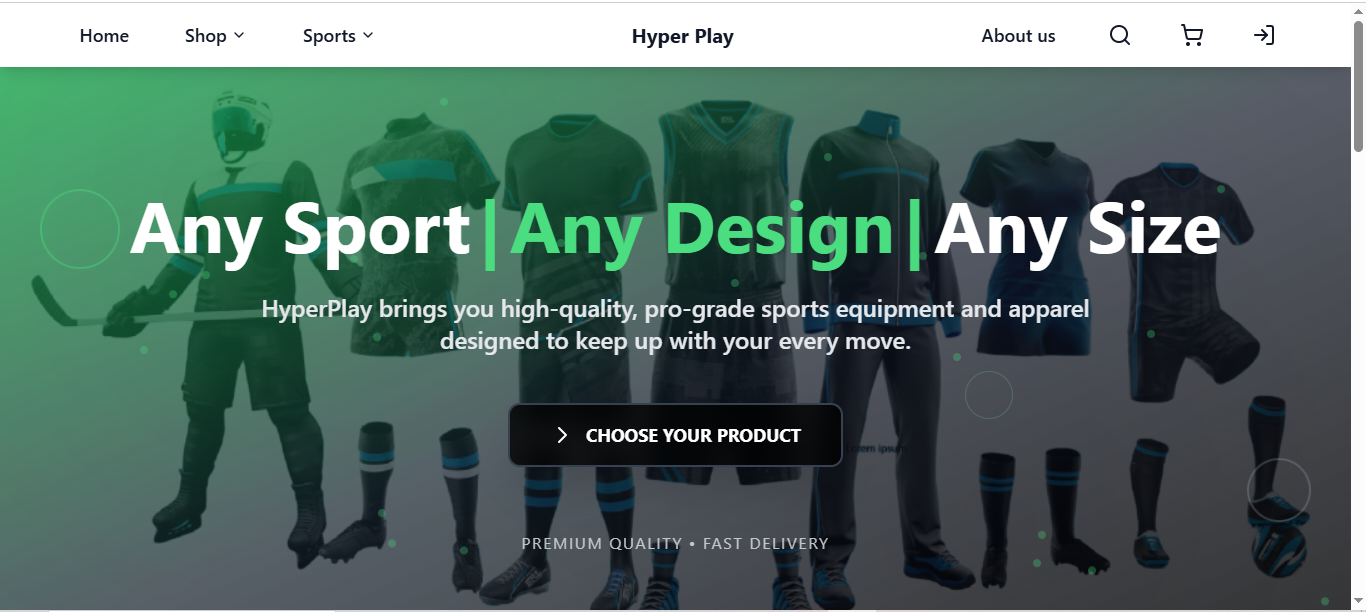
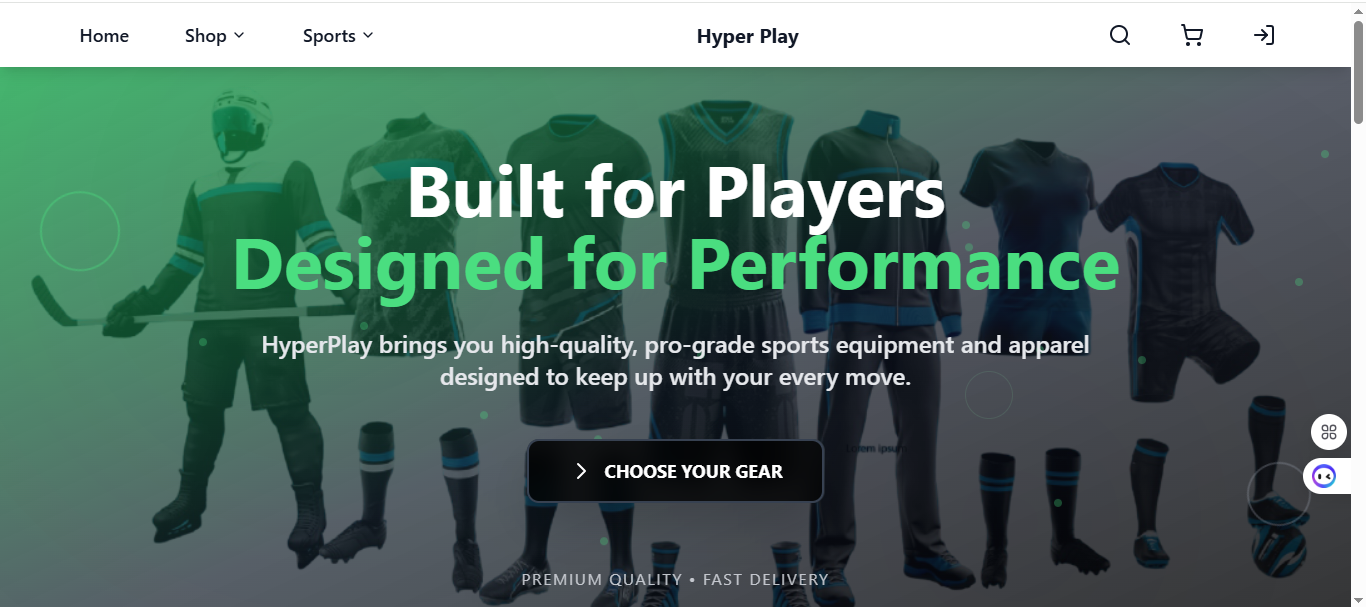
portfolio added

diff --git a/index.html b/index.html
@@ -2,6 +2,7 @@
 <html lang="en">
   <head>
     <title>Charan Romi</title>
+    <link rel="icon" type="image/x-icon" href="images/user.png" />
     <!-- Meta Tags -->
     <meta name="viewport" content="width=device-width, initial-scale=1" />
     <meta http-equiv="Content-Type" content="text/html; charset=utf-8" />
@@ -546,6 +547,13 @@
                 >
                   <i class="fa fa-github"></i> GitHub
                 </a>
+                <a
+                  href="https://hyper-play-eight.vercel.app"
+                  target="_blank"
+                  class="btn btn-default"
+                >
+                  <i class="fa fa-external-link"></i> Live
+                </a>
               </div>
             </div>
           </div>
@@ -564,12 +572,55 @@
                   <b>Edu Nova</b> - Learning Management System
                 </p>
                 <a
-                  href="https://github.com/charan2r/learning-management-system.git"
+                  href="https://github.com/charan2r/edu-nova.git"
                   target="_blank"
                   class="btn btn-default"
                   style="margin-right: 8px"
                 >
                   <i class="fa fa-github"></i> GitHub
+                </a>
+                <a
+                  href="https://edu-nova-iota.vercel.app"
+                  target="_blank"
+                  class="btn btn-default"
+                >
+                  <i class="fa fa-external-link"></i> Live
+                </a>
+              </div>
+            </div>
+          </div>
+          <div class="col-md-4 w3_agile_gallery_grid">
+            <div class="agile_gallery_grid">
+              <a title="Aura Store" href="images/service.png">
+                <div class="agile_gallery_grid1">
+                  <img
+                    src="images/service.png"
+                    alt=" "
+                    class="img-responsive"
+                  />
+                </div>
+              </a>
+              <div
+                class="portfolio-details"
+                style="text-align: center; margin-top: 10px"
+              >
+                <p style="margin-bottom: 8px">
+                  <b>Service Hub</b> - Service Request Management System
+                </p>
+                <a
+                  href="https://github.com/charan2r/service-hub.git"
+                  target="_blank"
+                  class="btn btn-default"
+                  style="margin-right: 8px"
+                >
+                  <i class="fa fa-github"></i> GitHub
+                </a>
+                <a
+                  href="https://service-hub-three-pied.vercel.app"
+                  target="_blank"
+                  class="btn btn-default"
+                >
+                  <i class="fa fa-external-link"></i> Live
                 </a>
               </div>
             </div>
@@ -702,7 +753,7 @@
     <!--light-box-files -->
     <script type="text/javascript">
       $(function () {
-        $(".w3_agile_gallery_grid a").Chocolat();
+        $(".w3_agile_gallery_grid a:not(.btn)").Chocolat();
       });
     </script>
     <!-- //gallery -->